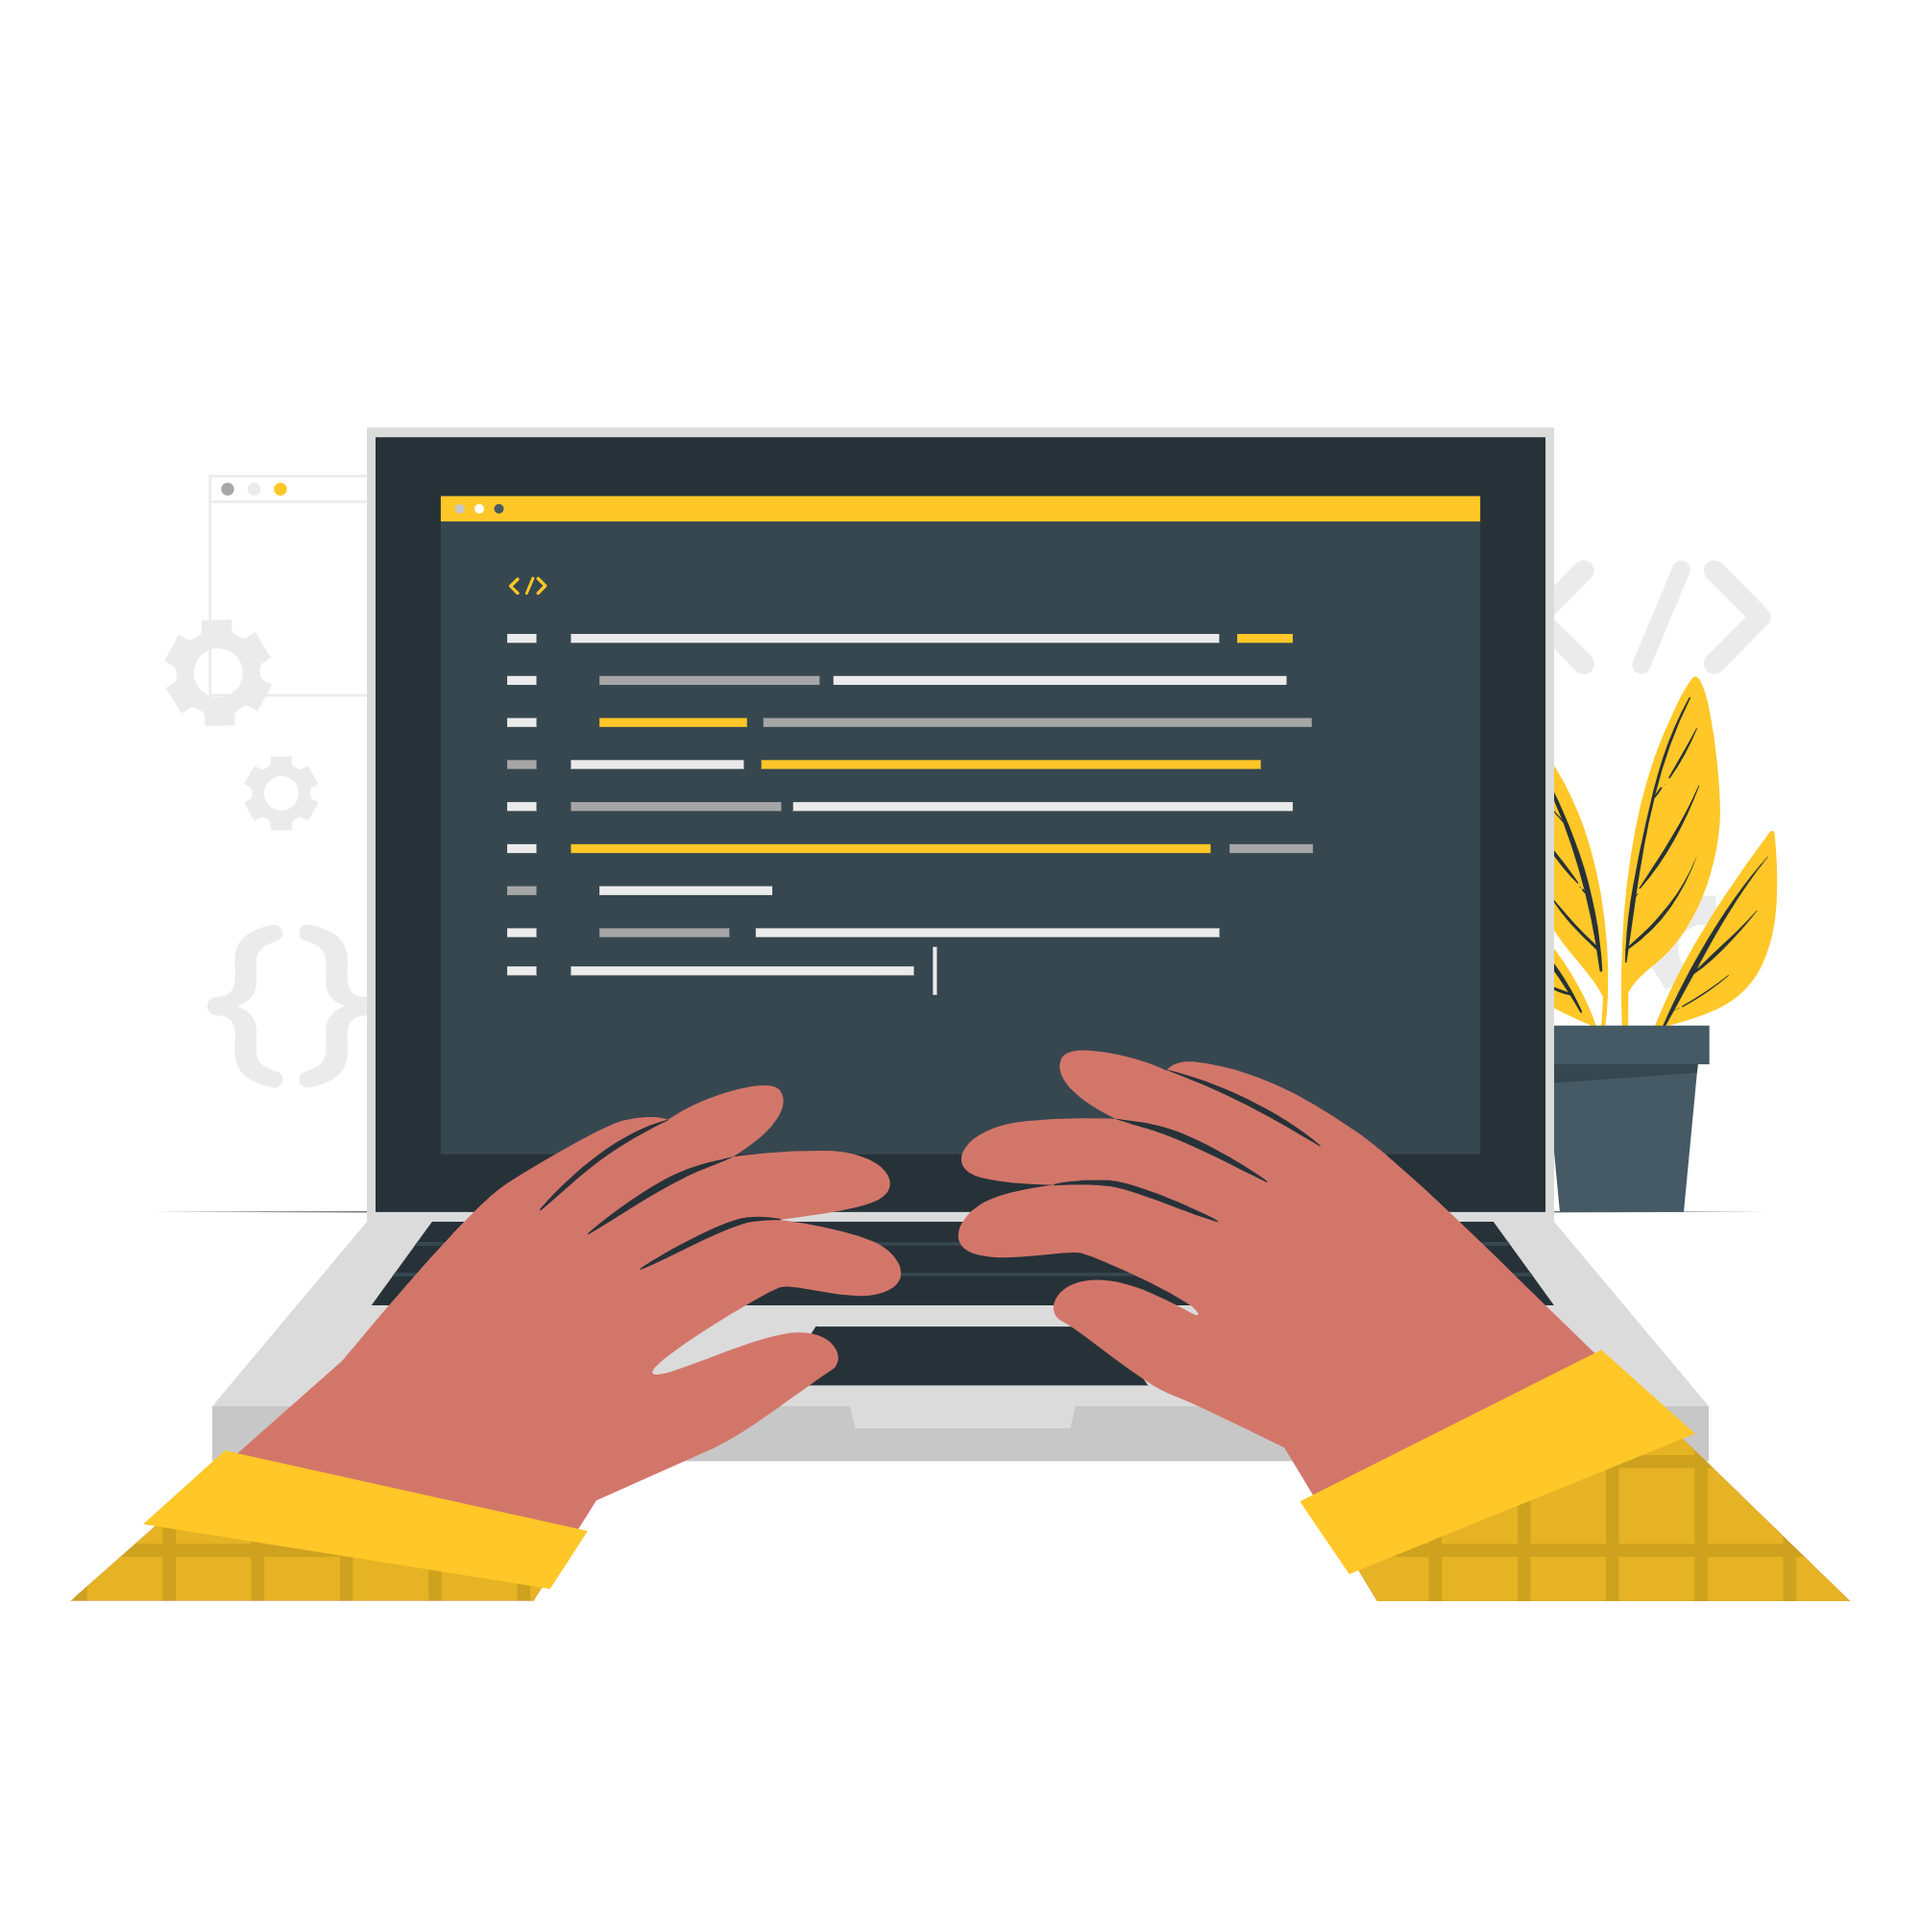
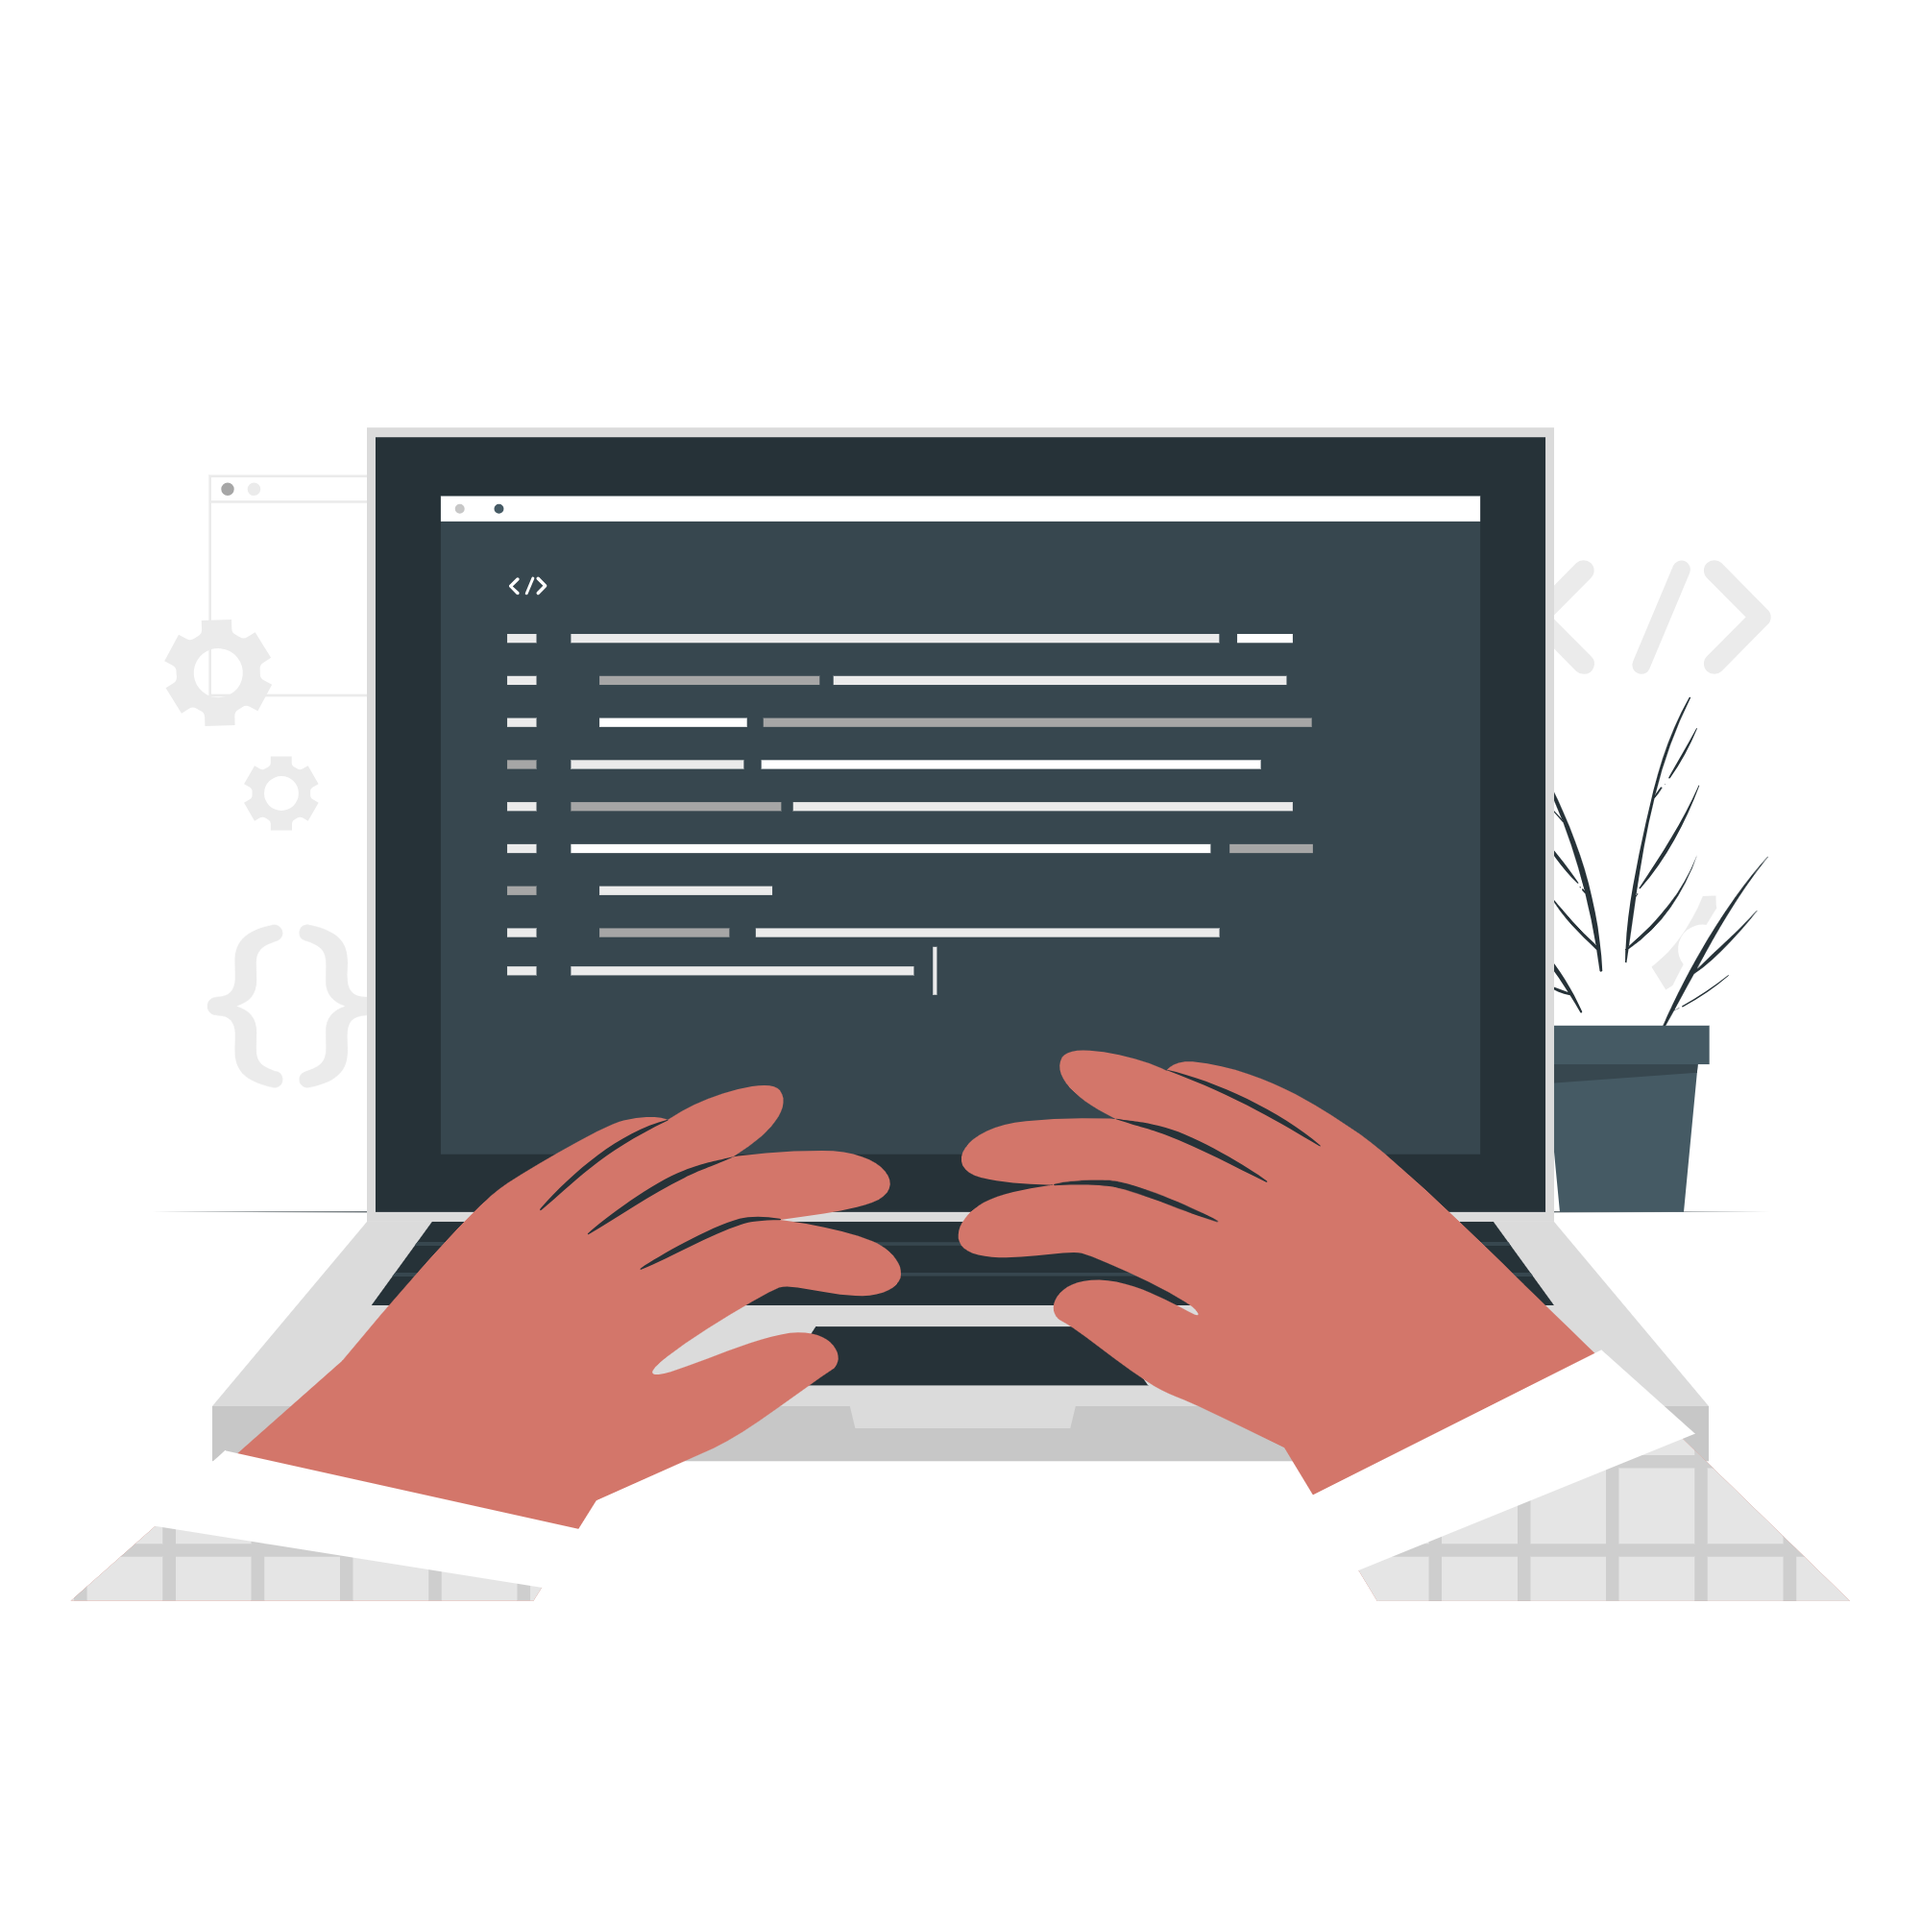
feat: update layout and text in HeroSection and SubmitPage for improved clarity and consistency; modify main container alignment

diff --git a/frontend/app/routes/_landing.submit.tsx b/frontend/app/routes/_landing.submit.tsx
@@ -1,8 +1,9 @@
 import {
   ArrowLeft,
   Check,
-  Circle,
   FileImage,
+  FileText,
+  Film,
   Lock,
   LogIn,
   RefreshCcw,
@@ -232,7 +233,7 @@ export default function SubmitPage({ loaderData }: Route.ComponentProps) {
             id="progressFrame2"
           >
             <div className="frame-number">
-              <span>02</span>
+              <span>02 </span>
             </div>
             <div className="frame-title">Time tracking</div>
           </div>
@@ -262,7 +263,7 @@ export default function SubmitPage({ loaderData }: Route.ComponentProps) {
                   className="step-status-pill status-pending"
                   id="step1StatusPill"
                 >
-                  <Circle size={15} />
+                  <LogIn size={15} />
                   <span>Awaiting Sign In</span>
                 </span>
               ) : (
@@ -297,8 +298,8 @@ export default function SubmitPage({ loaderData }: Route.ComponentProps) {
                       <span>Sign in with Hack Club</span>
                     </button>
                     <p>
-                      Don't have an HCA account yet? A free teen account will
-                      be initiated during verification.
+                      Don't have an HCA account yet? A free teen account will be
+                      initiated during verification.
                     </p>
                   </div>
                 </div>
@@ -373,7 +374,7 @@ export default function SubmitPage({ loaderData }: Route.ComponentProps) {
                   className="step-status-pill status-active"
                   id="step2StatusPill"
                 >
-                  <Circle size={16} />
+                  <Film size={16} />
                   <span>Select Project</span>
                 </span>
               )}
@@ -602,7 +603,7 @@ export default function SubmitPage({ loaderData }: Route.ComponentProps) {
                   className="step-status-pill status-active"
                   id="step3StatusPill"
                 >
-                  <Circle size={16} />
+                  <FileText size={16} />
                   <span>Enter details</span>
                 </span>
               )}

diff --git a/frontend/app/components/HeroSection.tsx b/frontend/app/components/HeroSection.tsx
@@ -48,7 +48,7 @@ export default function HeroSection() {
                   target="_blank"
                   rel="noopener noreferrer"
                 >
-                  <span>Join the Slack channel</span>
+                  <span>Join #tickets-ysws on Slack</span>
                   <ArrowUpRightSquare />
                 </Link>
               </div>

diff --git a/frontend/app/app.css b/frontend/app/app.css
@@ -1069,7 +1069,8 @@ main.container {
   background: #fff;
   border: 1px solid #000;
   display: flex;
-  flex-direction: column;
+  /* flex-direction: column; */
+  align-items: center;
   gap: 6px;
   transition: all 0.3s ease;
   position: relative;
